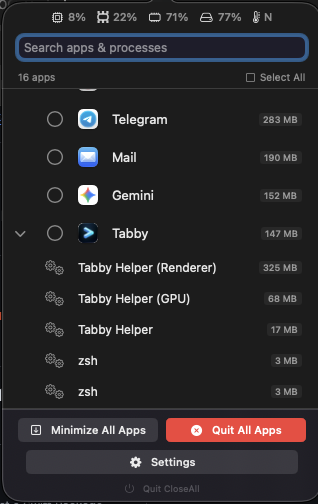
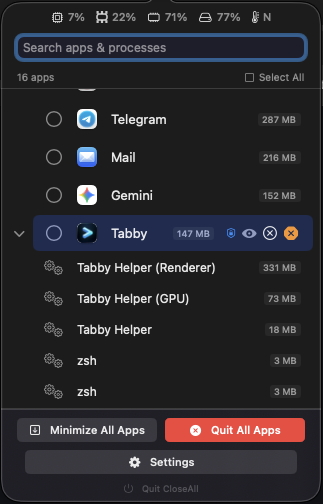
Replace screenshot with latest

diff --git a/README.md b/README.md
@@ -2,7 +2,7 @@
 
 CloseAll is a lightweight macOS menu bar app that lets you quit all running applications with a single click, with real-time system monitoring (memory, CPU, GPU, disk, thermal).
 
-![CloseAll Screenshot](screenshot.png?raw=true)
+![CloseAll Screenshot](screenshot.png)
 
 ## Project Structure
 